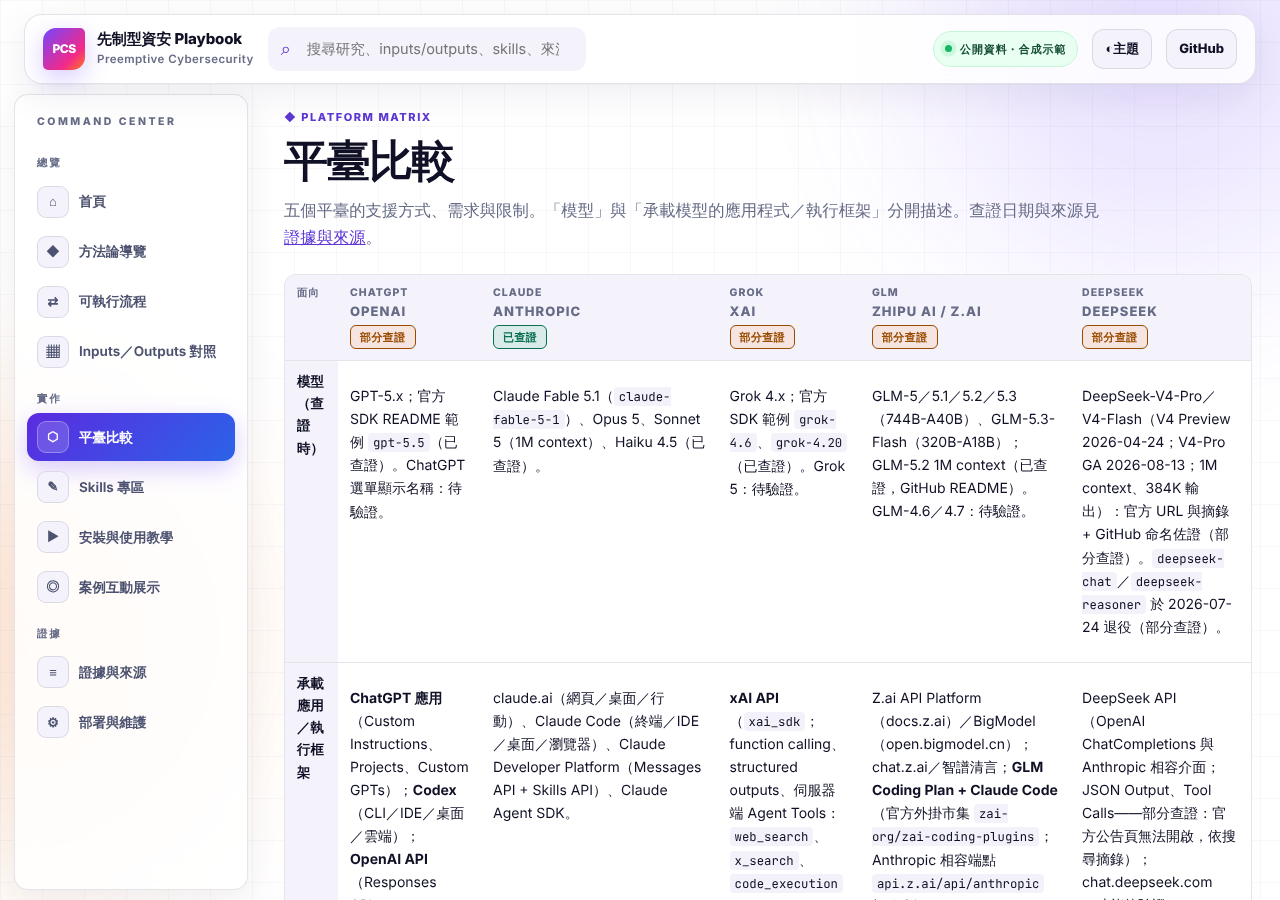
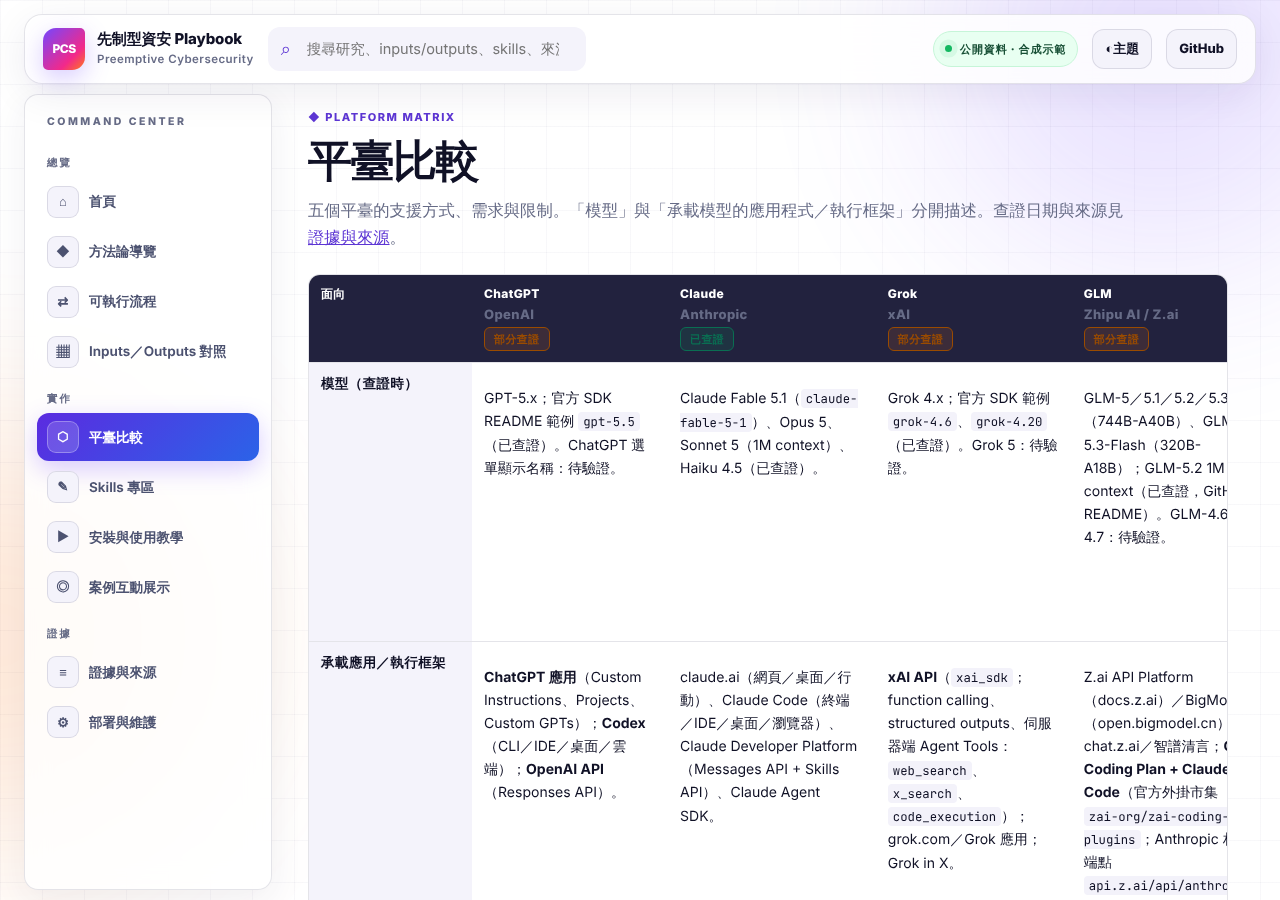
畫面修正：內頁表格、淺色開放式 hero、頂列對齊與區段標題對齊參考站設計
依 CyberRegulationWatch（淺色）與 DailySOCVitamin（深色）實際比對後修正：
- 表格：table 加 min-width 於 .table-wrap 內橫向捲動，表頭改 CRW 內文表頭配色
  （淺色深藍底白字、深色 surface-2），右緣加捲動提示陰影；tbody th[scope=row]
  不換行，平臺比較第一欄不再直排；來源表改固定欄寬，九欄皆在可視區內、
  只有備註欄需捲動；聚焦列由 inline style 改成 .is-focus class。
- 首頁 hero：淺色改為 CRW 的開放式（無框、落在格線背景上，標題放大、主視覺與
  軌道環放大），深色維持 DSV 有框面板；以 --hero-* token 切換。
- 版面：頂列、.layout、頁尾共用 --shell-w，頂列與側欄左緣對齊。
- 區段標題：新增 subheading()，內頁次級 h2 一律 eyebrow＋大標（＋可選右側說明），
  標題層級不變。
- 流程步驟磚等高；深色頂列站名改 DSV 藍→粉漸層字（品牌方塊底色仍為實色）。
- verify 106/106 通過，更新 verify-report.md 與 verify-screenshots/。

Claude-Session: https://claude.ai/code/session_01Jr4pzyA5ArdmTadoS8uQqv

diff --git a/assets/styles.css b/assets/styles.css
@@ -74,6 +74,14 @@
   --ambient-b: var(--orange);
   --sidebar-bg: var(--glass);
   --panel-bg: #ffffff;
+  /* 首頁 hero：淺色為開放式（無框，落在格線背景上），深色為有框面板 */
+  --hero-bg: transparent; --hero-border: transparent; --hero-shadow: none; --hero-pad: 48px 8px 36px;
+  /* 內文表格：表頭配色與右側捲動提示陰影 */
+  --th-bg: #22223e; --th-fg: #ffffff;
+  --table-edge: radial-gradient(farthest-side at 100% 50%, rgba(34, 31, 80, .16), transparent) right center / 14px 100% no-repeat;
+  /* 品牌字：淺色以純色漸層等價，與深色共用同一條規則 */
+  --brand-text: linear-gradient(var(--text), var(--text));
+  --shell-w: min(var(--shell), calc(100vw - 2 * var(--topbar-gap) - 20px));
 }
 /* 深色 token（DSV 色票）。寫兩次：手動選擇與跟隨系統。 */
 :root[data-theme="dark"] {
@@ -97,6 +105,10 @@
   --ambient-a: #3d7bfd; --ambient-b: #ff2d55;
   --sidebar-bg: linear-gradient(180deg, rgba(19, 28, 43, .75), rgba(10, 15, 24, .9));
   --panel-bg: linear-gradient(180deg, rgba(19, 28, 43, .6), rgba(14, 21, 32, .9));
+  --hero-bg: var(--panel-bg); --hero-border: var(--line); --hero-shadow: var(--shadow); --hero-pad: 36px;
+  --th-bg: var(--surface-2); --th-fg: var(--ink-2);
+  --table-edge: radial-gradient(farthest-side at 100% 50%, rgba(0, 0, 0, .55), transparent) right center / 14px 100% no-repeat;
+  --brand-text: linear-gradient(90deg, #7fb3ff, #ff5bd8 70%);
 }
 @media (prefers-color-scheme: dark) {
   :root:not([data-theme="light"]) {
@@ -120,6 +132,10 @@
     --ambient-a: #3d7bfd; --ambient-b: #ff2d55;
     --sidebar-bg: linear-gradient(180deg, rgba(19, 28, 43, .75), rgba(10, 15, 24, .9));
     --panel-bg: linear-gradient(180deg, rgba(19, 28, 43, .6), rgba(14, 21, 32, .9));
+    --hero-bg: var(--panel-bg); --hero-border: var(--line); --hero-shadow: var(--shadow); --hero-pad: 36px;
+    --th-bg: var(--surface-2); --th-fg: var(--ink-2);
+    --table-edge: radial-gradient(farthest-side at 100% 50%, rgba(0, 0, 0, .55), transparent) right center / 14px 100% no-repeat;
+    --brand-text: linear-gradient(90deg, #7fb3ff, #ff5bd8 70%);
   }
 }
 
@@ -155,13 +171,13 @@ code, kbd, samp { font-family: var(--mono); font-feature-settings: normal; }
 /* ---------- 頂列：淺色為玻璃懸浮卡（CRW），深色為全寬模糊列（DSV），同一結構 ---------- */
 .topbar {
   position: sticky; top: var(--topbar-gap); z-index: 50; min-height: var(--topbar-h);
-  width: min(var(--shell), calc(100vw - 2 * var(--topbar-gap) - 20px)); margin: var(--topbar-gap) auto 0;
+  width: var(--shell-w); margin: var(--topbar-gap) auto 0;
   display: flex; align-items: center; gap: 14px; padding: 10px 18px;
   background: var(--glass); border: 1px solid var(--line); border-radius: var(--topbar-radius);
   box-shadow: 0 10px 40px rgba(34, 31, 80, .08); backdrop-filter: blur(18px); -webkit-backdrop-filter: blur(18px);
 }
 .brand { font-weight: 700; text-decoration: none; color: var(--text); display: flex; align-items: center; gap: 12px; white-space: nowrap; }
-.brand .title { display: block; font-size: 15px; letter-spacing: -.01em; line-height: 1.2; }
+.brand .title { display: block; font-size: 15px; letter-spacing: -.01em; line-height: 1.2; background: var(--brand-text); -webkit-background-clip: text; background-clip: text; color: transparent; }
 .brand small { display: block; margin-top: 2px; color: var(--muted); font-size: 11.5px; font-weight: 600; letter-spacing: .04em; }
 /* 品牌方塊：底色必須是實色（verify 讀 backgroundColor 算對比），漸層疊在上面 */
 .brand .badge, .brand-mark {
@@ -193,10 +209,10 @@ code, kbd, samp { font-family: var(--mono); font-feature-settings: normal; }
 .menu-btn { display: none; }
 
 /* ---------- 版面：Command Center 側欄（DSV）＋主內容 ---------- */
-.layout { display: grid; grid-template-columns: var(--sidebar-w) minmax(0, 1fr); gap: 0 8px; width: min(var(--shell), 100%); margin: 0 auto; min-height: calc(100vh - var(--topbar-h)); }
+.layout { display: grid; grid-template-columns: var(--sidebar-w) minmax(0, 1fr); gap: 0 8px; width: var(--shell-w); margin: 0 auto; min-height: calc(100vh - var(--topbar-h)); }
 .sidebar {
   position: sticky; top: calc(var(--topbar-h) + var(--topbar-gap) + 10px); height: calc(100vh - var(--topbar-h) - var(--topbar-gap) - 20px); overflow-y: auto;
-  margin: 10px 0 10px 14px; padding: 16px 12px; background: var(--sidebar-bg); border: 1px solid var(--line); border-radius: 14px;
+  margin: 10px 0; padding: 16px 12px; background: var(--sidebar-bg); border: 1px solid var(--line); border-radius: 14px;
   box-shadow: var(--shadow); backdrop-filter: blur(12px); -webkit-backdrop-filter: blur(12px);
 }
 .sidebar .side-title { font-size: 10.5px; letter-spacing: 2.5px; color: var(--ink-3); font-weight: 800; padding: 2px 10px 10px; }
@@ -212,7 +228,7 @@ code, kbd, samp { font-family: var(--mono); font-feature-settings: normal; }
 .sidebar nav a[aria-current="page"] { background-color: #2b63e8; background-image: var(--grad-active); color: #fff; font-weight: 700; box-shadow: var(--glow-accent); }
 .sidebar nav a[aria-current="page"]::before { background: rgba(255, 255, 255, .16); border-color: rgba(255, 255, 255, .3); color: #fff; }
 main { padding: 24px 28px calc(40px + var(--dock-h)); min-width: 0; max-width: 1240px; }
-footer.site-footer { width: min(var(--shell), 100%); margin: 0 auto; padding: 28px 28px calc(28px + var(--dock-h)); border-top: 1px solid var(--line); color: var(--muted); font-size: 13px; display: flex; flex-wrap: wrap; justify-content: space-between; gap: 12px 24px; }
+footer.site-footer { width: var(--shell-w); margin: 0 auto; padding: 28px 28px calc(28px + var(--dock-h)); border-top: 1px solid var(--line); color: var(--muted); font-size: 13px; display: flex; flex-wrap: wrap; justify-content: space-between; gap: 12px 24px; }
 footer.site-footer .foot-brand { display: flex; flex-wrap: wrap; gap: 6px 14px; align-items: baseline; }
 footer.site-footer .foot-brand strong { color: var(--text); font-size: 14px; letter-spacing: -.01em; }
 footer.site-footer p { margin: 0; max-width: 72ch; }
@@ -223,12 +239,12 @@ footer.site-footer, footer.site-footer a { overflow-wrap: anywhere; }
 @media (max-width: 900px) {
   :root { --topbar-gap: 0px; --topbar-radius: 0px; }
   .topbar { width: 100%; margin: 0; border-radius: 0; border-left: 0; border-right: 0; border-top: 0; }
-  .layout { grid-template-columns: 1fr; gap: 0; }
+  .layout { width: 100%; grid-template-columns: 1fr; gap: 0; }
   .sidebar { position: fixed; left: 0; top: var(--topbar-h); width: min(86vw, 320px); height: calc(100vh - var(--topbar-h) - var(--dock-h)); margin: 0; border-radius: 0 16px 16px 0; transform: translateX(-105%); transition: transform .2s ease; z-index: 40; box-shadow: var(--shadow-lg); background: var(--surface-solid); }
   .sidebar.open { transform: translateX(0); }
   .menu-btn { display: inline-flex; }
   main { padding: 16px 16px calc(24px + var(--dock-h)); }
-  footer.site-footer { padding: 20px 16px calc(20px + var(--dock-h)); }
+  footer.site-footer { width: 100%; padding: 20px 16px calc(20px + var(--dock-h)); }
   .search-box { max-width: none; }
   .brand .title, .brand small { display: none; }
   .live-chip { display: none; }
@@ -267,28 +283,33 @@ h4 { font-size: 1rem; margin: 18px 0 6px; }
 .section-heading { display: flex; align-items: end; justify-content: space-between; gap: 20px; flex-wrap: wrap; margin-bottom: 8px; }
 .section-heading > div { min-width: 0; }
 .section-heading h1, .section-heading h2 { margin-bottom: 4px; }
+.section-heading:not(:first-child) { margin-top: 44px; }
+.section-heading h2 { margin-top: 0; font-size: clamp(24px, 2.6vw, 34px); }
+.section-heading .section-note { max-width: 420px; margin: 0; color: var(--muted); font-size: 13px; line-height: 1.6; }
 .lead { color: var(--muted); font-size: 1.02rem; line-height: 1.7; margin: 6px 0 22px; max-width: 80ch; }
 
 /* ---------- 首頁 hero（CRW 結構；深色改 DSV 霓虹色） ---------- */
-.hero { position: relative; display: grid; grid-template-columns: 1.12fr .88fr; gap: 40px; align-items: center; padding: 36px 36px 30px; margin-bottom: 22px; border-radius: var(--radius-lg); border: 1px solid var(--line); background: var(--panel-bg); box-shadow: var(--shadow); overflow: hidden; }
-.hero h1 { font-size: clamp(30px, 3.9vw, 52px); line-height: 1.06; letter-spacing: -.045em; margin: 0; }
+.hero { position: relative; display: grid; grid-template-columns: 1.12fr .88fr; gap: 52px; align-items: center; min-height: 560px; padding: var(--hero-pad); margin-bottom: 22px; border-radius: var(--radius-lg); border: 1px solid var(--hero-border); background: var(--hero-bg); box-shadow: var(--hero-shadow); overflow: hidden; }
+/* 主內容欄比 CRW 的全寬 shell 窄（左側有側欄），字級略小於 CRW，英文標題才不會拆成五行 */
+.hero h1 { font-size: clamp(36px, 4.3vw, 58px); line-height: 1.02; letter-spacing: -.05em; margin: 0; }
 .hero h1 span { display: block; text-wrap: balance; word-break: keep-all; }
 .gradient-text { padding-bottom: 6px; background: var(--grad-text); -webkit-background-clip: text; background-clip: text; color: transparent; }
-.hero-lede { max-width: 620px; margin: 22px 0 0; color: var(--muted); font-size: clamp(15px, 1.5vw, 18px); line-height: 1.75; }
-.hero-actions { display: flex; flex-wrap: wrap; gap: 12px; margin-top: 26px; }
-.hero-visual { position: relative; min-height: 360px; display: grid; place-items: center; isolation: isolate; }
-.hero-visual::before { content: ""; position: absolute; z-index: -2; width: 320px; height: 320px; background: radial-gradient(circle at 40% 30%, var(--surface-solid) 0 14%, var(--accent-soft) 44%, var(--surface-2) 67%, var(--surface-solid) 100%); border: 1px solid var(--line); border-radius: 46% 54% 56% 44% / 48% 46% 54% 52%; box-shadow: var(--shadow-lg); }
-.hero-visual svg { position: relative; z-index: 2; width: min(300px, 80%); height: auto; filter: drop-shadow(0 18px 40px rgba(37, 29, 94, .22)); }
+.hero-lede { max-width: 620px; margin: 26px 0 0; color: var(--muted); font-size: clamp(16px, 1.6vw, 19px); line-height: 1.75; }
+.hero-actions { display: flex; flex-wrap: wrap; gap: 12px; margin-top: 30px; }
+.hero-visual { position: relative; min-height: 420px; display: grid; place-items: center; isolation: isolate; }
+.hero-visual::before { content: ""; position: absolute; z-index: -2; width: 380px; height: 380px; background: radial-gradient(circle at 40% 30%, var(--surface-solid) 0 14%, var(--accent-soft) 44%, var(--surface-2) 67%, var(--surface-solid) 100%); border: 1px solid var(--line); border-radius: 46% 54% 56% 44% / 48% 46% 54% 52%; box-shadow: var(--shadow-lg); }
+.hero-visual svg { position: relative; z-index: 2; width: min(360px, 86%); height: auto; filter: drop-shadow(0 18px 40px rgba(37, 29, 94, .22)); }
 .orbit { position: absolute; z-index: -1; border: 1px dashed color-mix(in srgb, var(--accent) 35%, transparent); border-radius: 50%; }
-.orbit-one { width: 360px; height: 260px; transform: rotate(-18deg); }
-.orbit-two { width: 270px; height: 370px; transform: rotate(26deg); }
+.orbit-one { width: 430px; height: 310px; transform: rotate(-18deg); }
+.orbit-two { width: 320px; height: 440px; transform: rotate(26deg); }
 .signal-card { position: absolute; z-index: 4; display: flex; align-items: center; gap: 8px; padding: 10px 13px; background: var(--glass); border: 1px solid var(--line); border-radius: 13px; box-shadow: var(--shadow); backdrop-filter: blur(12px); -webkit-backdrop-filter: blur(12px); font-size: 10.5px; font-weight: 900; letter-spacing: .06em; white-space: nowrap; }
-.signal-top { top: 10px; right: 0; }
-.signal-bottom { bottom: 0; left: 0; }
+.signal-top { top: 60px; right: -10px; }
+.signal-bottom { bottom: 40px; left: -8px; }
 .signal-dot { width: 8px; height: 8px; border-radius: 50%; background: var(--pink); box-shadow: 0 0 0 4px color-mix(in srgb, var(--pink) 15%, transparent); }
 .signal-dot.verified { background: var(--cyan); box-shadow: 0 0 0 4px color-mix(in srgb, var(--cyan) 15%, transparent); }
-@media (max-width: 1000px) { .hero { grid-template-columns: 1fr; padding: 26px 22px; } .hero-visual { min-height: 300px; } }
-@media (max-width: 480px) { .hero-visual { min-height: 260px; } .hero-visual::before { width: 240px; height: 240px; } .orbit-one { width: 260px; height: 190px; } .orbit-two { width: 190px; height: 270px; } .signal-card { font-size: 9.5px; padding: 8px 10px; } }
+@media (max-width: 1000px) { .hero { grid-template-columns: 1fr; min-height: 0; gap: 28px; padding: 26px 4px; } :root[data-theme="dark"] .hero { padding: 26px 22px; } .hero-visual { min-height: 320px; } }
+@media (max-width: 1000px) and (prefers-color-scheme: dark) { :root:not([data-theme="light"]) .hero { padding: 26px 22px; } }
+@media (max-width: 480px) { .hero-visual { min-height: 280px; } .hero-visual::before { width: 270px; height: 270px; } .orbit-one { width: 300px; height: 220px; } .orbit-two { width: 220px; height: 310px; } .signal-top { top: 30px; right: -4px; } .signal-bottom { bottom: 20px; left: -4px; } .signal-card { font-size: 9.5px; padding: 8px 10px; } }
 
 /* ---------- 指標卡（淺色 CRW metric-card，深色 DSV kpi-card） ---------- */
 .metrics { display: grid; grid-template-columns: repeat(4, minmax(0, 1fr)); gap: 14px; margin: 0 0 22px; }
@@ -353,11 +374,19 @@ a.pill:hover { border-color: var(--accent); color: var(--accent-ink); }
 .callout.ok { border-color: color-mix(in srgb, var(--accent-2) 50%, transparent); background: var(--ok-soft); }
 
 /* ---------- 表格、程式碼、引言 ---------- */
-.table-wrap { overflow-x: auto; border: 1px solid var(--line); border-radius: 12px; margin: 12px 0; background: var(--surface-solid); }
-table { border-collapse: collapse; width: 100%; font-size: 14px; }
+.table-wrap { overflow-x: auto; border: 1px solid var(--line); border-radius: 12px; margin: 12px 0; background: var(--table-edge), var(--surface-solid); background-attachment: local, scroll; }
+table { border-collapse: collapse; width: 100%; min-width: 720px; font-size: 14px; }
 th, td { text-align: left; padding: 9px 12px; border-bottom: 1px solid var(--line); vertical-align: top; }
-th { background: var(--surface-2); position: sticky; top: 0; color: var(--ink-3); font-size: 10.5px; letter-spacing: 1px; text-transform: uppercase; font-weight: 800; white-space: nowrap; }
-tbody th[scope="row"] { text-transform: none; letter-spacing: 0; font-size: 13.5px; color: var(--text); white-space: normal; }
+th { background: var(--th-bg); position: sticky; top: 0; color: var(--th-fg); font-size: 12px; letter-spacing: .03em; font-weight: 800; white-space: nowrap; }
+tbody th[scope="row"] { font-size: 13.5px; color: var(--text); background: var(--surface-2); white-space: nowrap; min-width: 8em; }
+/* 來源表：標題與備註欄給足寬度，日期不換行；聚焦列用 outline 取代 inline style */
+.src-table { table-layout: fixed; min-width: 1320px; }
+.src-table th:nth-child(1) { width: 4em; } .src-table th:nth-child(2) { width: 17em; } .src-table th:nth-child(3) { width: 7em; }
+.src-table th:nth-child(4), .src-table th:nth-child(5) { width: 7.5em; } .src-table th:nth-child(6) { width: 6.5em; }
+.src-table th:nth-child(7) { width: 9.5em; } .src-table th:nth-child(8) { width: 8em; }
+.src-table td { overflow-wrap: anywhere; }
+.src-table tr.is-focus { outline: 2px solid var(--accent); outline-offset: -2px; }
+.matrix-table td { min-width: 14em; }
 tr:last-child td { border-bottom: 0; }
 code { font-family: var(--mono); font-size: .88em; background: var(--code-bg); padding: 1px 5px; border-radius: 4px; overflow-wrap: anywhere; }
 pre { font-family: var(--mono); font-size: 12.5px; background: var(--code-bg); border: 1px solid var(--line); border-radius: 12px; padding: 14px; overflow-x: auto; line-height: 1.5; max-height: 70vh; }
@@ -400,11 +429,12 @@ summary { cursor: pointer; font-weight: 700; }
 .steps li { position: relative; padding-left: 44px; margin: 10px 0; }
 .steps li::before { counter-increment: s; content: counter(s); position: absolute; left: 0; top: 2px; width: 30px; height: 30px; border-radius: 10px; background: var(--grad-active); color: #fff; display: flex; align-items: center; justify-content: center; font-weight: 800; font-size: 13px; box-shadow: var(--glow-accent); }
 .flow { display: grid; grid-template-columns: repeat(auto-fit, minmax(170px, 1fr)); gap: 10px; margin: 14px 0; }
-.flow .stage { position: relative; background: var(--panel-bg); border: 1px solid var(--line); border-left: 4px solid var(--accent); border-radius: 12px; padding: 12px 14px; cursor: pointer; text-align: left; color: var(--text); font: inherit; transition: transform .15s ease, border-color .15s ease; }
+.flow .stage { position: relative; display: flex; flex-direction: column; min-height: 112px; background: var(--panel-bg); border: 1px solid var(--line); border-left: 4px solid var(--accent); border-radius: 12px; padding: 12px 14px; cursor: pointer; text-align: left; color: var(--text); font: inherit; transition: transform .15s ease, border-color .15s ease; }
 .flow .stage:hover { transform: translateY(-2px); border-color: var(--accent); }
 .flow .stage[aria-pressed="true"] { border-color: var(--accent); box-shadow: 0 0 0 2px var(--accent) inset, 0 0 18px color-mix(in srgb, var(--accent) 30%, transparent); background: var(--accent-soft); }
 .flow .stage .n { font-family: var(--mono); font-size: 11px; color: var(--accent-ink); letter-spacing: .08em; }
 .flow .stage .t { font-weight: 750; }
+.flow .stage .small { margin-top: auto; }
 .doc-toc { font-size: 14px; }
 .doc-toc a { display: block; padding: 8px 0; min-height: 40px; text-decoration: none; color: var(--text); overflow-wrap: anywhere; }
 .doc-toc a:hover { color: var(--accent-ink); }

diff --git a/assets/app.js b/assets/app.js
@@ -89,7 +89,10 @@
   const DOCK = ['/', '/process', '/skills', '/case', '/sources'];
   const navItem = (path) => NAV.flatMap(g => g[1]).find(r => r[0] === path);
   /** 每頁標題上方的 eyebrow 小標（CRW 式區段標題） */
-  const heading = (path, h1) => `<div class="section-heading"><div><p class="eyebrow">${esc(navItem(path)?.[3] || '')}</p><h1>${h1}</h1></div></div>`;
+  // 頁面標題（h1）：eyebrow 取自導覽表；note 為右側說明（可省略）
+  const heading = (path, h1, note) => `<div class="section-heading"><div><p class="eyebrow">${esc(navItem(path)?.[3] || '')}</p><h1>${h1}</h1></div>${note ? `<p class="section-note">${note}</p>` : ''}</div>`;
+  // 頁內次級區段標題（h2）：eyebrow ＋ 大標 ＋ 可選的右側說明，標題層級維持 h2
+  const subheading = (eyebrow, h2, note) => `<div class="section-heading"><div><p class="eyebrow">${esc(eyebrow)}</p><h2>${h2}</h2></div>${note ? `<p class="section-note">${note}</p>` : ''}</div>`;
   let lastPath = null;
   function render() {
     const hash = location.hash || '#/';
@@ -227,7 +230,7 @@
           <dt>語言模型角色</dt><dd>${inline(cur.llmRole)}</dd>
           <dt>依據</dt><dd>${inline(cur.basisNote)} ${srcLinks(cur.sources)}</dd>
         </dl></div>` : ''}
-      <h2>整體流程圖</h2>
+      ${subheading('LOOP', '整體流程圖')}
       <div class="card"><pre>${esc(stages.map(s => `[${s.n}] ${s.name}`).join('  →  '))}
        ↑                                                                        │
        └──────────────── 追蹤指標回饋、範圍再確認（每週／每次重大變更）──────────┘</pre>
@@ -298,14 +301,14 @@
     el.innerHTML = `
       ${heading('/platforms', '平臺比較')}
       <p class="lead">五個平臺的支援方式、需求與限制。「模型」與「承載模型的應用程式／執行框架」分開描述。查證日期與來源見 <a href="#/sources">證據與來源</a>。</p>
-      <div class="table-wrap"><table>
+      <div class="table-wrap"><table class="matrix-table">
         <thead><tr><th>面向</th>${D.platforms.map(p => `<th>${esc(p.name)}<br><span class="small">${esc(p.vendor)}</span><br>${ST[p.status] || ''}</th>`).join('')}</tr></thead>
         <tbody>${rows.map(([label, key]) => `<tr><th scope="row">${label}</th>${D.platforms.map(p => `<td>${md(p[key])}</td>`).join('')}</tr>`).join('')}
         <tr><th scope="row">來源</th>${D.platforms.map(p => `<td>${srcLinks(p.sources)}</td>`).join('')}</tr></tbody>
       </table></div>
-      <h2>共通原則</h2>
+      ${subheading('COMMON PRINCIPLES', '共通原則')}
       <div class="card">${md(window.PLATFORM_COMMON || '')}</div>
-      <h2>各平臺摘要卡</h2>
+      ${subheading('PLATFORM CARDS', '各平臺摘要卡')}
       <div class="grid">${D.platforms.map(p => `<div class="card"><h3 style="margin-top:0">${esc(p.name)} ${ST[p.status] || ''}</h3><p class="small">${md(p.summary)}</p><div class="btn-row"><a class="btn small" href="#/skills?platform=${p.id}">查看 Skill</a><a class="btn small secondary" href="#/guides?platform=${p.id}">安裝教學</a></div></div>`).join('')}</div>`;
   }
 
@@ -398,7 +401,7 @@
           <div class="card" id="rules-card"><strong>示範規則摘要</strong><p class="small">${window.DEMO.rulesSummary().map(esc).join('<br>')}</p></div>
         </aside>
       </div>
-      <h2>附錄</h2>
+      ${subheading('APPENDIX', '附錄')}
       ${data.expectedOutput ? docDetails('預期輸出（examples/expected-output.md）', data.expectedOutput, { shift: 2 }) : ''}
       ${D.extra.syntheticReadme ? docDetails('合成資料說明（examples/synthetic-org/README.md）', D.extra.syntheticReadme, { shift: 2 }) : ''}`;
     let last;
@@ -463,18 +466,18 @@
       <p class="lead">所有引用之來源、發布日期（如有）、查閱日期、查證等級與付費牆狀態。Gartner 付費牆內容僅引用公開摘要或新聞稿；未讀全文者一律標示。查證等級：${Object.entries(VERIFICATION).map(([k, [l, c]]) => `<span class="pill ${c}">${l}</span>`).join('')}</p>
       <div class="filters" role="search" aria-label="篩選來源"><label>類型 <select id="s-type"><option value="all">全部</option>${Object.entries(TYPE).map(([k, v]) => `<option value="${k}">${v}</option>`).join('')}</select></label><label>查證等級 <select id="s-ver"><option value="all">全部</option>${Object.entries(VERIFICATION).map(([k, [l]]) => `<option value="${k}">${l}</option>`).join('')}</select></label><label>關鍵字 <input type="text" id="s-text" placeholder="標題、網址、備註"></label><span class="small" id="s-count" role="status"></span></div>
       <div id="src-list"></div>
-      <h2>待驗證清單（${pendingTodo.length} 項待處理）</h2>
+      ${subheading('OPEN ITEMS', `待驗證清單（${pendingTodo.length} 項待處理）`)}
       ${todoTable(pendingTodo, ['項目', '為何待驗證', '下一步'])}
       ${doneTodo.length ? `<h3>已完成（保留作為紀錄）</h3>${todoTable(doneTodo, ['項目', '結果', '後續'], true)}` : ''}
-      <h2>連結檢查結果</h2>
+      ${subheading('LINK CHECK', '連結檢查結果')}
       <div class="card">${md(window.LINK_CHECK_NOTE || '尚未記錄。')}${D.extra.linkCheck ? docDetails('完整連結檢查表（link-check.md）', D.extra.linkCheck, { shift: 2 }) : ''}</div>
-      ${evidence.length ? `<h2>原始證據檔（研究代理的查證紀錄，英文）</h2><p class="small">這些是研究過程中逐條記錄的原始證據與查證等級，供核對「證據與來源」表使用；正體中文的整理版見 <a href="#/methodology">方法論導覽</a>。</p>${evidence.map(e => docDetails(e.title, e.body, { shift: 2 })).join('')}` : ''}`;
+      ${evidence.length ? `${subheading('RAW EVIDENCE', '原始證據檔（研究代理的查證紀錄，英文）')}<p class="small">這些是研究過程中逐條記錄的原始證據與查證等級，供核對「證據與來源」表使用；正體中文的整理版見 <a href="#/methodology">方法論導覽</a>。</p>${evidence.map(e => docDetails(e.title, e.body, { shift: 2 })).join('')}` : ''}`;
     const verLabel = (s) => { const v = s.verification || (s.paywalled ? 'summary' : undefined); const m = VERIFICATION[v]; return m ? `<span class="pill ${m[1]}">${m[0]}</span>` : '<span class="pill">未標示</span>'; };
     const searchable = (s) => [s.id, s.title, s.publisher, s.url, s.note, s.date].join(' ').toLowerCase();
     function draw() {
       const list = D.sources.filter(s => (state.type === 'all' || s.type === state.type) && (state.verification === 'all' || (s.verification || (s.paywalled ? 'summary' : '')) === state.verification) && (!state.text || searchable(s).includes(state.text.toLowerCase())));
       $('#s-count').textContent = `顯示 ${list.length} / ${D.sources.length} 筆`;
-      $('#src-list').innerHTML = `<div class="table-wrap"><table><thead><tr><th>ID</th><th>標題</th><th>發布者</th><th>發布日期</th><th>查閱日期</th><th>類型</th><th>查證等級</th><th>付費牆</th><th>備註／用途</th></tr></thead><tbody>${list.map(s => `<tr id="src-${esc(s.id)}" ${q.focus === s.id ? 'style="outline:2px solid var(--accent)"' : ''}><td>${esc(s.id)}</td><td>${s.url ? `<a href="${esc(s.url)}" target="_blank" rel="noopener noreferrer">${esc(s.title)}</a>` : `${esc(s.title)} <span class="pill">無公開連結</span>`}</td><td>${esc(s.publisher)}</td><td>${esc(s.date || '未標示')}</td><td>${esc(s.accessed)}</td><td>${TYPE[s.type] || esc(s.type)}</td><td>${verLabel(s)}</td><td>${s.paywalled ? (s.readFull ? '<span class="pill fact">是（已讀授權轉載全文）</span>' : '<span class="pill todo">是（僅公開摘要）</span>') : '否'}</td><td class="small">${md(s.note)}</td></tr>`).join('')}</tbody></table></div>`;
+      $('#src-list').innerHTML = `<div class="table-wrap"><table class="src-table"><thead><tr><th>ID</th><th>標題</th><th>發布者</th><th>發布日期</th><th>查閱日期</th><th>類型</th><th>查證等級</th><th>付費牆</th><th>備註／用途</th></tr></thead><tbody>${list.map(s => `<tr id="src-${esc(s.id)}" ${q.focus === s.id ? 'class="is-focus"' : ''}><td>${esc(s.id)}</td><td>${s.url ? `<a href="${esc(s.url)}" target="_blank" rel="noopener noreferrer">${esc(s.title)}</a>` : `${esc(s.title)} <span class="pill">無公開連結</span>`}</td><td>${esc(s.publisher)}</td><td>${esc(s.date || '未標示')}</td><td>${esc(s.accessed)}</td><td>${TYPE[s.type] || esc(s.type)}</td><td>${verLabel(s)}</td><td>${s.paywalled ? (s.readFull ? '<span class="pill fact">是（已讀授權轉載全文）</span>' : '<span class="pill todo">是（僅公開摘要）</span>') : '否'}</td><td class="small">${md(s.note)}</td></tr>`).join('')}</tbody></table></div>`;
       if (q.focus) { const f = document.getElementById(`src-${q.focus}`); if (f) f.scrollIntoView({ block: 'center' }); q.focus = null; }
     }
     $('#s-type').value = state.type; $('#s-ver').value = state.verification;
@@ -488,7 +491,7 @@
   function viewDeploy(el) {
     const g = D.guides.find(x => x.id === 'deployment') || D.guides.find(x => x.platform === '' && /deploy/i.test(x.id));
     el.innerHTML = `${heading('/deploy', '部署與維護')}<article class="doc card">${g ? md(g.body, { shift: 0 }) : '<p>尚無部署文件。</p>'}</article>
-      <h2>附錄</h2>
+      ${subheading('APPENDIX', '附錄')}
       ${D.extra.verifyReport ? docDetails('最近一次驗證報告（verify-report.md）', D.extra.verifyReport, { shift: 2 }) : ''}
       ${D.extra.backendReadme ? docDetails('選用後端：模型 API 代理（backend/README.md）', D.extra.backendReadme, { shift: 2 }) : ''}
       ${D.extra.readme ? docDetails('儲存庫 README', D.extra.readme, { shift: 2 }) : ''}`;

diff --git a/verify-report.md b/verify-report.md
@@ -1,6 +1,6 @@
 # 驗證報告
 
-執行時間：2026-10-16T05:56:20.884Z
+執行時間：2026-10-16T23:35:57.449Z
 模式：full
 結果：106/106 通過
 
@@ -76,7 +76,7 @@
 | 導覽 #/sources | ✅ | 證據與來源 |
 | 導覽 #/deploy | ✅ | 部署與維護 |
 | 方法論章節切換 | ✅ | /methodology?doc=01-definition |
-| 目錄錨點：同章且元素存在 | ✅ | 1-2-gartner-的目標與主張-gartner-明確陳述 scrollY=18 |
+| 目錄錨點：同章且元素存在 | ✅ | 1-2-gartner-的目標與主張-gartner-明確陳述 scrollY=8 |
 | Tabs 方向鍵切換 | ✅ | /methodology?doc=02-relations |
 | Skip link 不改變頁面 | ✅ |  |
 | 全站搜尋回傳結果 | ✅ | 12 筆 |
